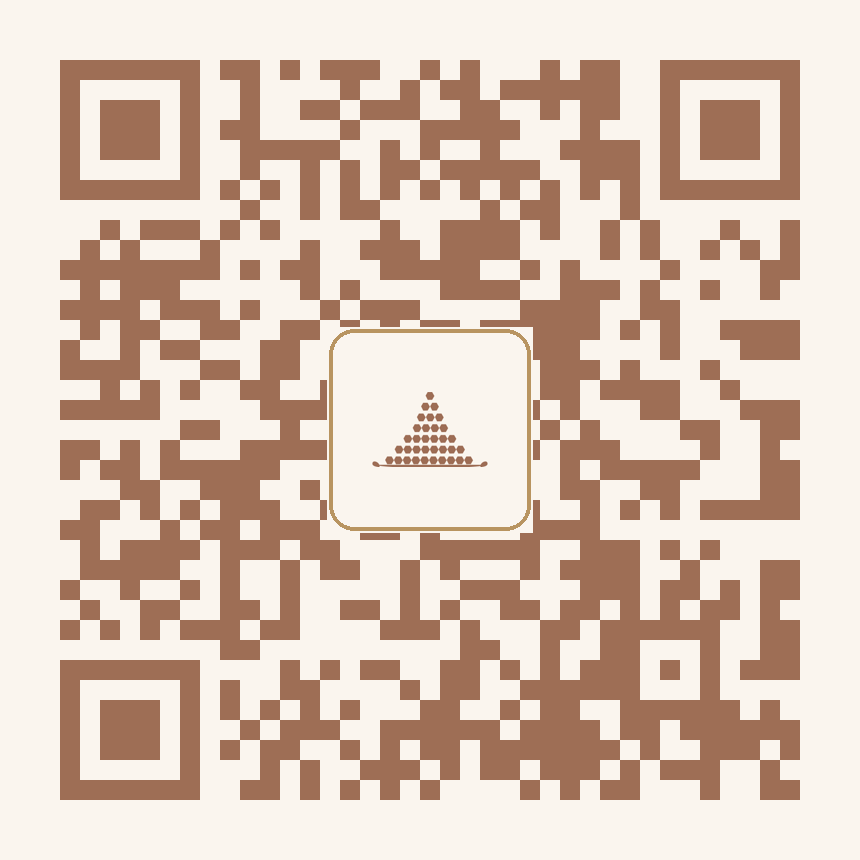
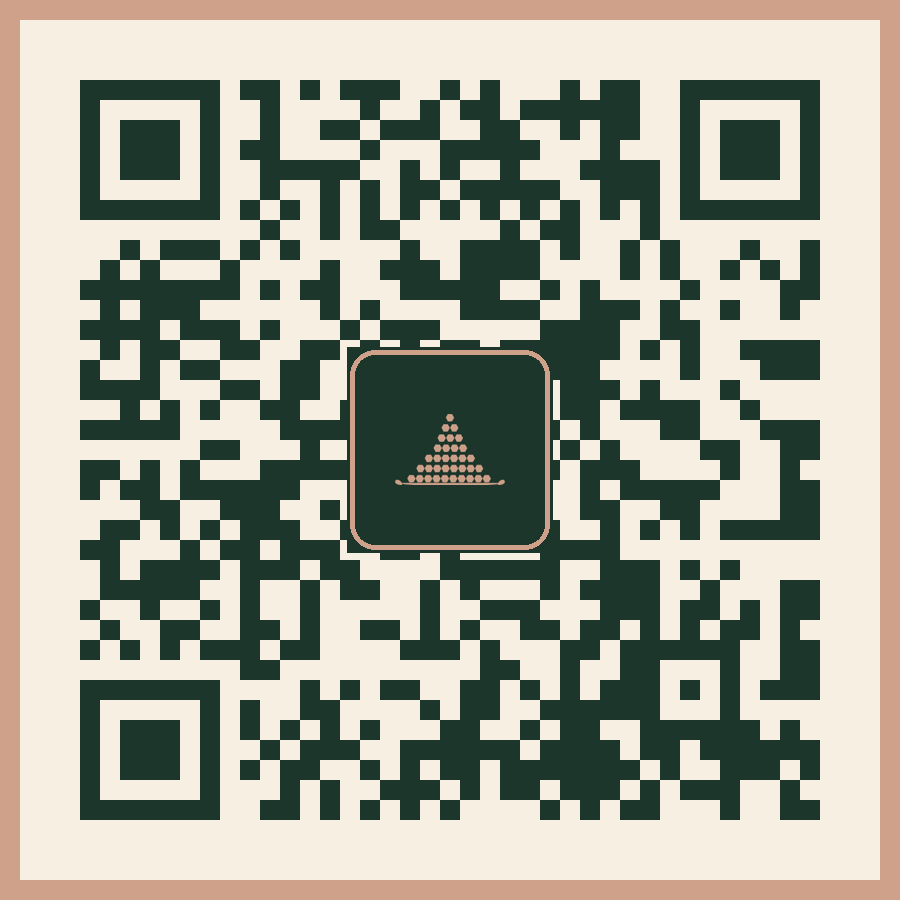
Rose-gold green design

diff --git a/index.html b/index.html
@@ -1,17 +1,17 @@
 <!doctype html><html lang="en"><head><meta charset="utf-8"><meta name="viewport" content="width=device-width,initial-scale=1">
 <title>MINI & MANY — Tasting Invitation</title>
 <link href="https://fonts.googleapis.com/css2?family=Cormorant+Garamond:wght@400;600&display=swap" rel="stylesheet">
-<style>body{margin:0;background:#FAF5EE;font-family:'Cormorant Garamond',serif;color:#5a463c;display:flex;justify-content:center}
-.c{max-width:460px;margin:24px;padding:36px 28px;border:1px solid #B89460;outline:3px solid #B8946055;outline-offset:6px;text-align:center}
-img{width:220px}h1{color:#9E6E55;font-weight:400;font-size:2.2em;margin:.3em 0}.d{color:#9E6E55;font-size:1.35em}
-input,select{width:100%;box-sizing:border-box;padding:12px;margin:8px 0;border:1px solid #B89460;background:#fff;font:inherit;font-size:1.1em}
-button{width:100%;padding:14px;background:#9E6E55;color:#fff;border:0;font:inherit;font-size:1.2em;letter-spacing:2px;margin-top:10px}</style></head>
-<body><div class="c"><img src="logo-cropped.png" alt="MINI & MANY"><h1>Tasting Invitation</h1>
-<p>You are invited to join us for a tasting experience</p><p class="d">Wednesday, 04 November 2026</p><p>The Avenues Mall Branch – End of Phase One</p>
+<style>body{margin:0;background:#1C362B;font-family:'Cormorant Garamond',serif;color:#F6EFE2;display:flex;justify-content:center}
+.c{max-width:460px;margin:24px;padding:36px 28px;border:1px solid #CFA08A;outline:3px solid #CFA08A55;outline-offset:6px;text-align:center}
+img{width:220px}h1{color:#CFA08A;font-weight:400;font-size:2.2em;margin:.3em 0}.d{color:#CFA08A;font-size:1.35em}
+input,select{width:100%;box-sizing:border-box;padding:12px;margin:8px 0;border:1px solid #CFA08A;background:#24443A;color:#F6EFE2;font:inherit;font-size:1.1em}
+button{width:100%;padding:14px;background:#CFA08A;color:#1C362B;border:0;font:inherit;font-size:1.2em;letter-spacing:2px;margin-top:10px}</style></head>
+<body><div class="c"><img src="logo-cropped.png" alt="MINI & MANY"><h1>Taste the Moment</h1><p>Where every bite tells a story</p>
+<p class="d">Wednesday, 04 November 2026</p><p>The Avenues Mall Branch – End of Phase One</p>
 <form id="f"><input name="name" placeholder="Full name" required><input name="phone" type="tel" placeholder="Phone number" required>
 <select name="time" required><option value="">Select your time</option>
 <option>12:00 PM</option><option>1:00 PM</option><option>2:00 PM</option><option>3:00 PM</option><option>4:00 PM</option><option>5:00 PM</option><option>6:00 PM</option><option>7:00 PM</option><option>8:00 PM</option><option>9:00 PM</option></select>
-<button>CONFIRM</button></form><div id="ok" style="display:none;font-size:1.3em;color:#9E6E55"><p>Thank you — your appointment is confirmed</p><p class="d">Wednesday, 04 November 2026</p><p>The Avenues Mall Branch – End of Phase One</p></div></div>
+<button>CONFIRM</button></form><div id="ok" style="display:none;font-size:1.3em;color:#CFA08A"><p>Thank you — your appointment is confirmed</p><p class="d">Wednesday, 04 November 2026</p><p>The Avenues Mall Branch – End of Phase One</p></div></div>
 <script>
 // Fill in after creating the Google Form: FORM_ID and the entry.<id> of each question
 const FORM="https://docs.google.com/forms/d/e/1FAIpQLSdNfEJ6AVzykcEy9FSrusBwYyu1ZJEwEPkatkqLk7IGBF8oMw/formResponse",E={name:"entry.1655047137",phone:"entry.1937265659",time:"entry.91117268"};
